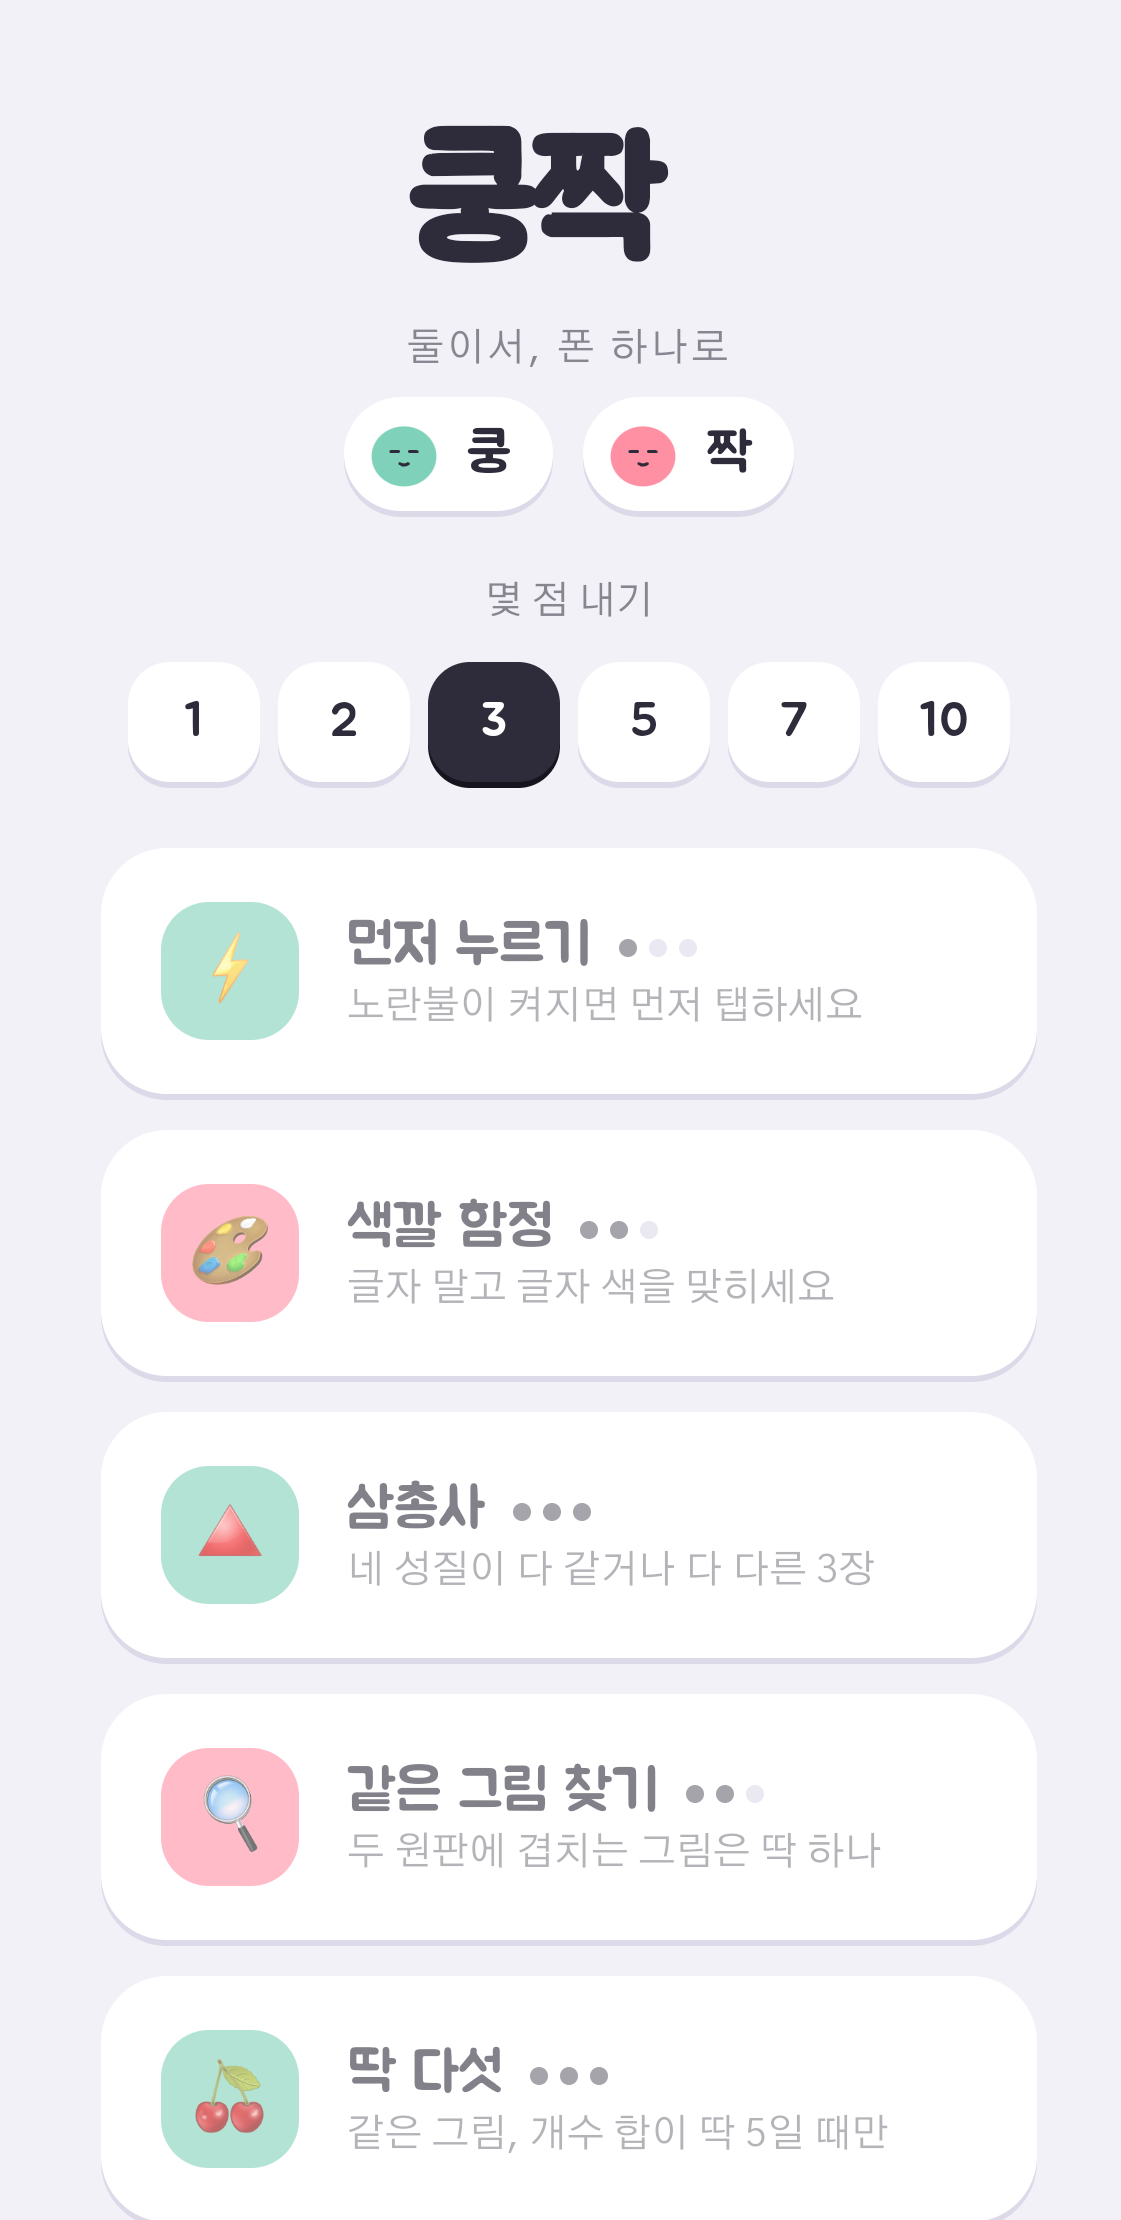
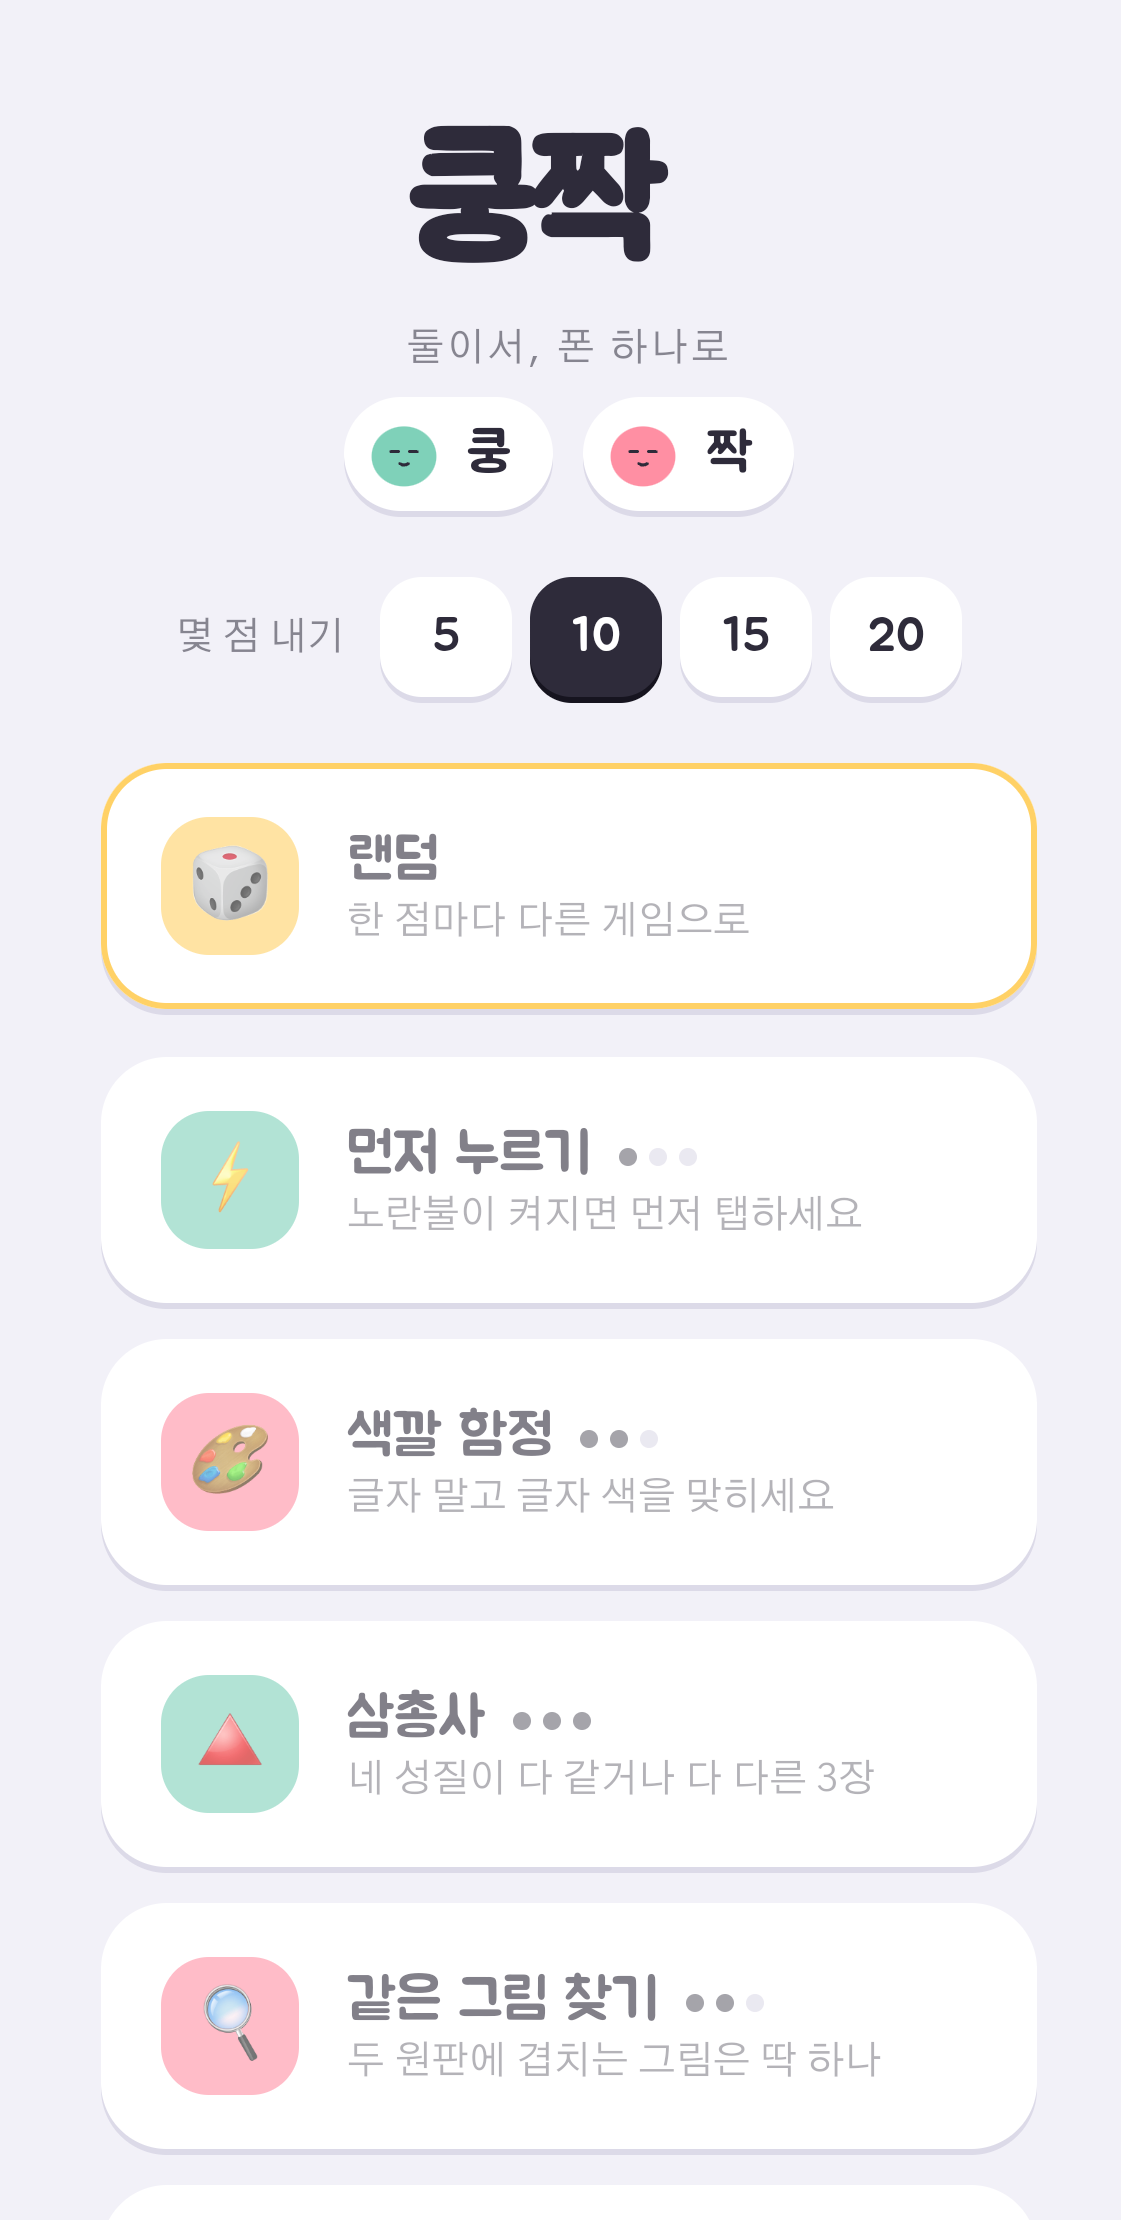
스크린샷 8장을 새 화면으로 다시 찍었다
내기 점수 기본값이 3 → 10 이 되면서 대결 화면의 점이 3개에서 10개로 바뀌었고,
첫 화면에는 랜덤 카드가 생겼다. 기존 8장이 전부 옛 화면이라 다시 찍었다.

tools/prep_screenshots.py 의 ORDER 를 원본 파일 이름과 맞췄다. 전에는 06-land 가
05-땅따먹기가 되는 식으로 어긋나 있어서, 다시 찍을 때 어느 파일을 덮어써야 하는지
헷갈렸다(실제로 옛 파일이 남아 섞였다).

결과 1121×2220, 비율 1.980 — 8장 모두 규격 안.

Claude-Session: https://claude.ai/code/session_01NTwkGWZtTgZZuAgwRcBFA8

diff --git a/tools/prep_screenshots.py b/tools/prep_screenshots.py
@@ -32,8 +32,8 @@ ORDER = [
     ('02-reaction.png', '02-먼저누르기'),
     ('03-trio.png',     '03-삼총사'),
     ('04-match.png',    '04-같은그림찾기'),
-    ('06-land.png',     '05-땅따먹기'),
-    ('05-five.png',     '06-딱다섯'),
+    ('05-land.png',     '05-땅따먹기'),
+    ('06-five.png',     '06-딱다섯'),
     ('07-bomb.png',     '07-폭탄돌리기'),
     ('08-odd.png',      '08-다른색하나'),
 ]
